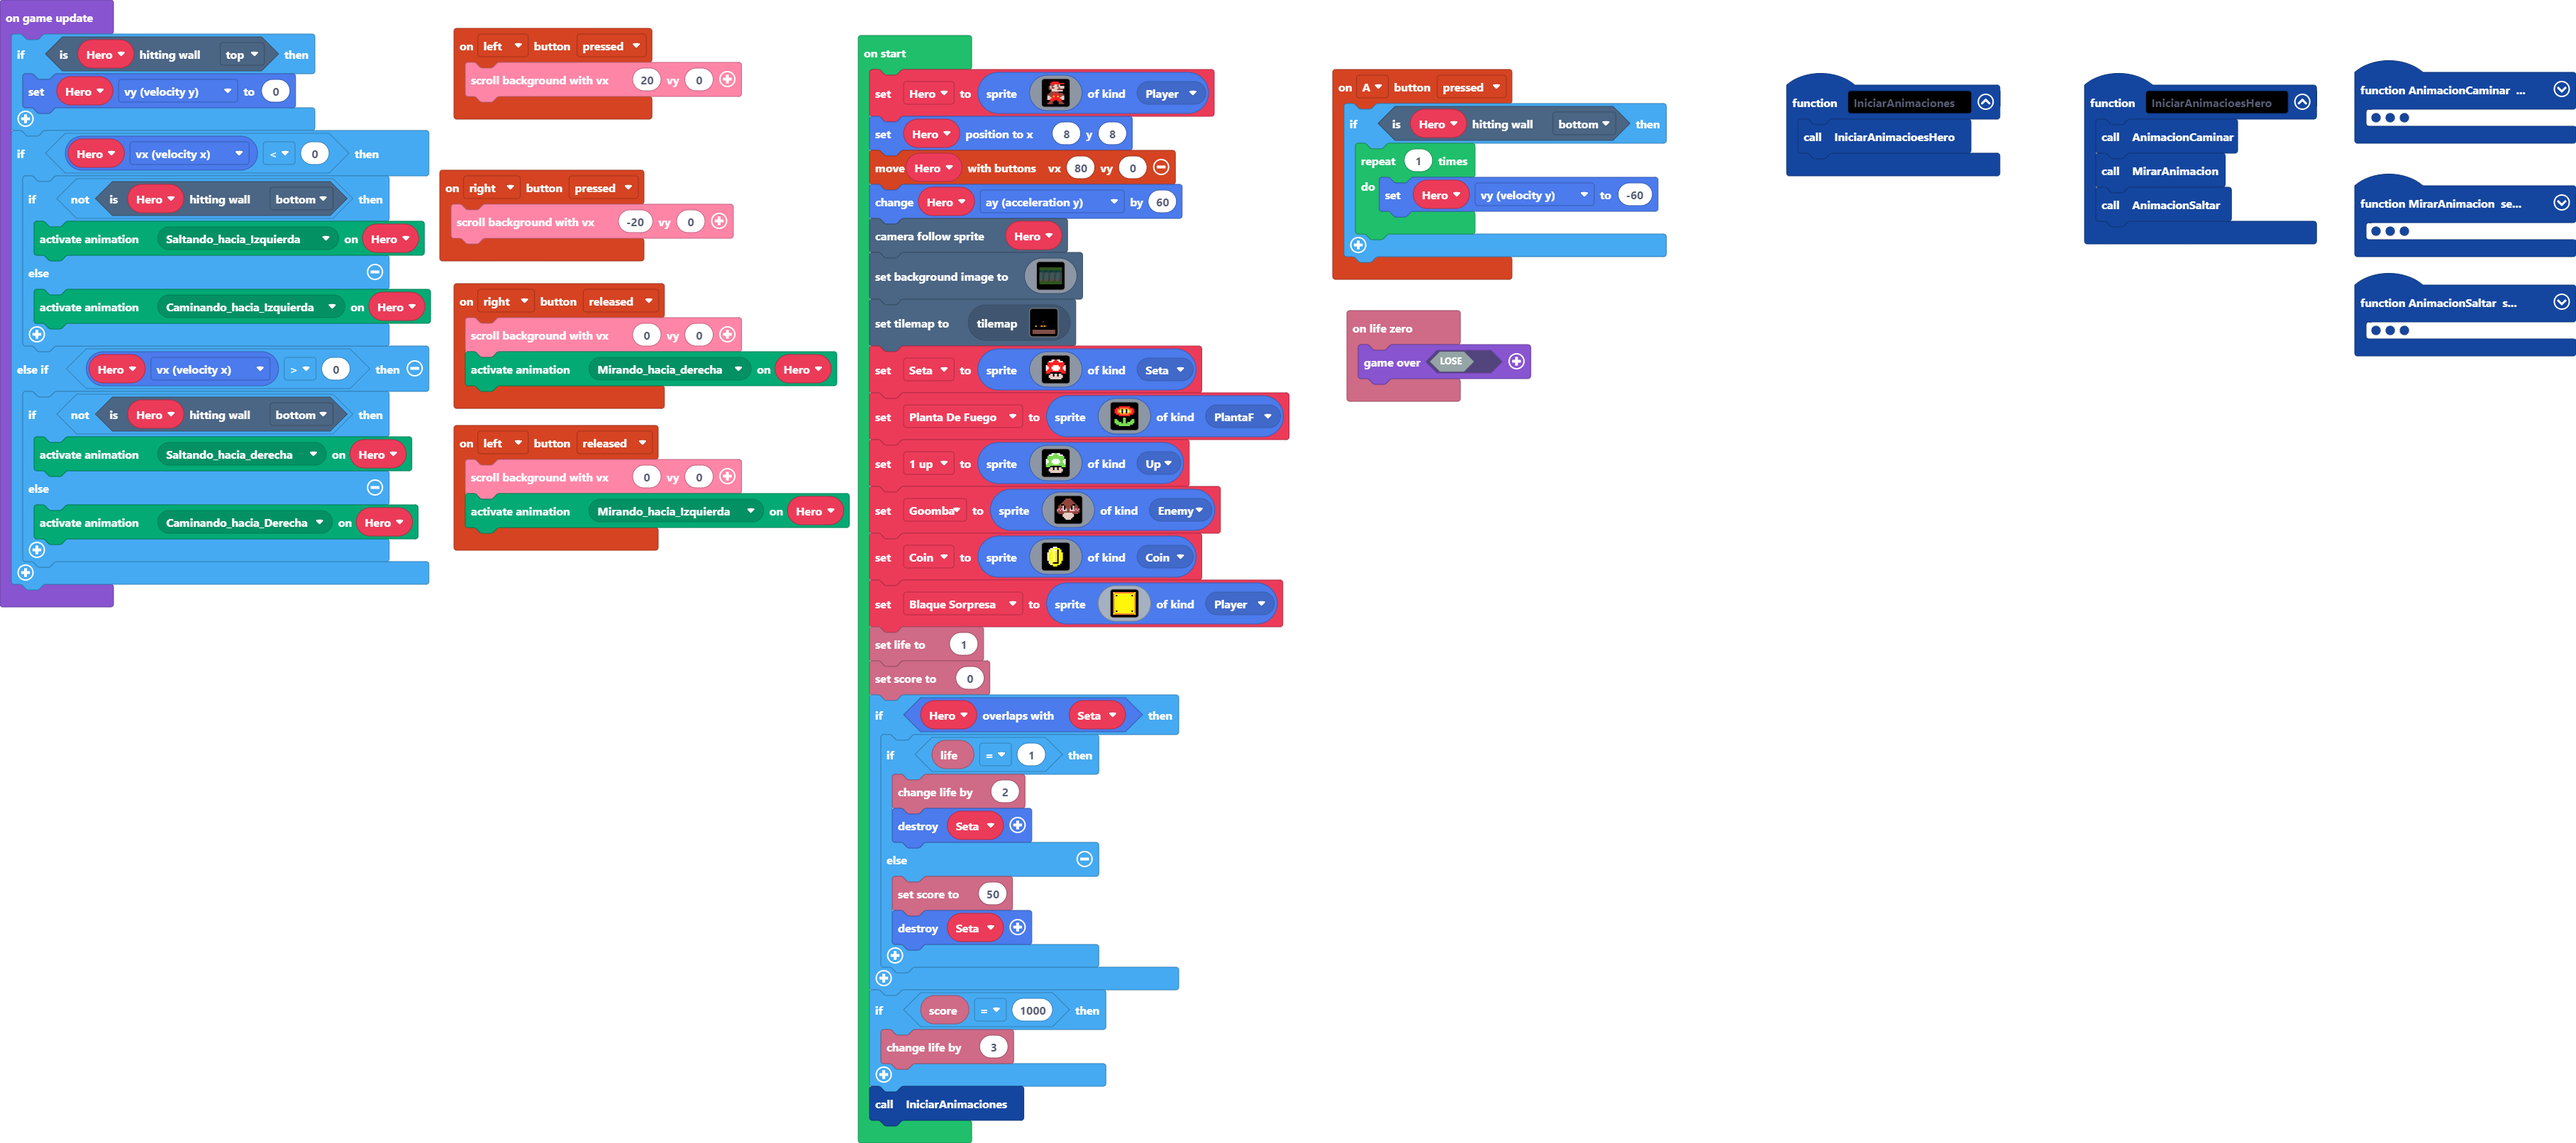
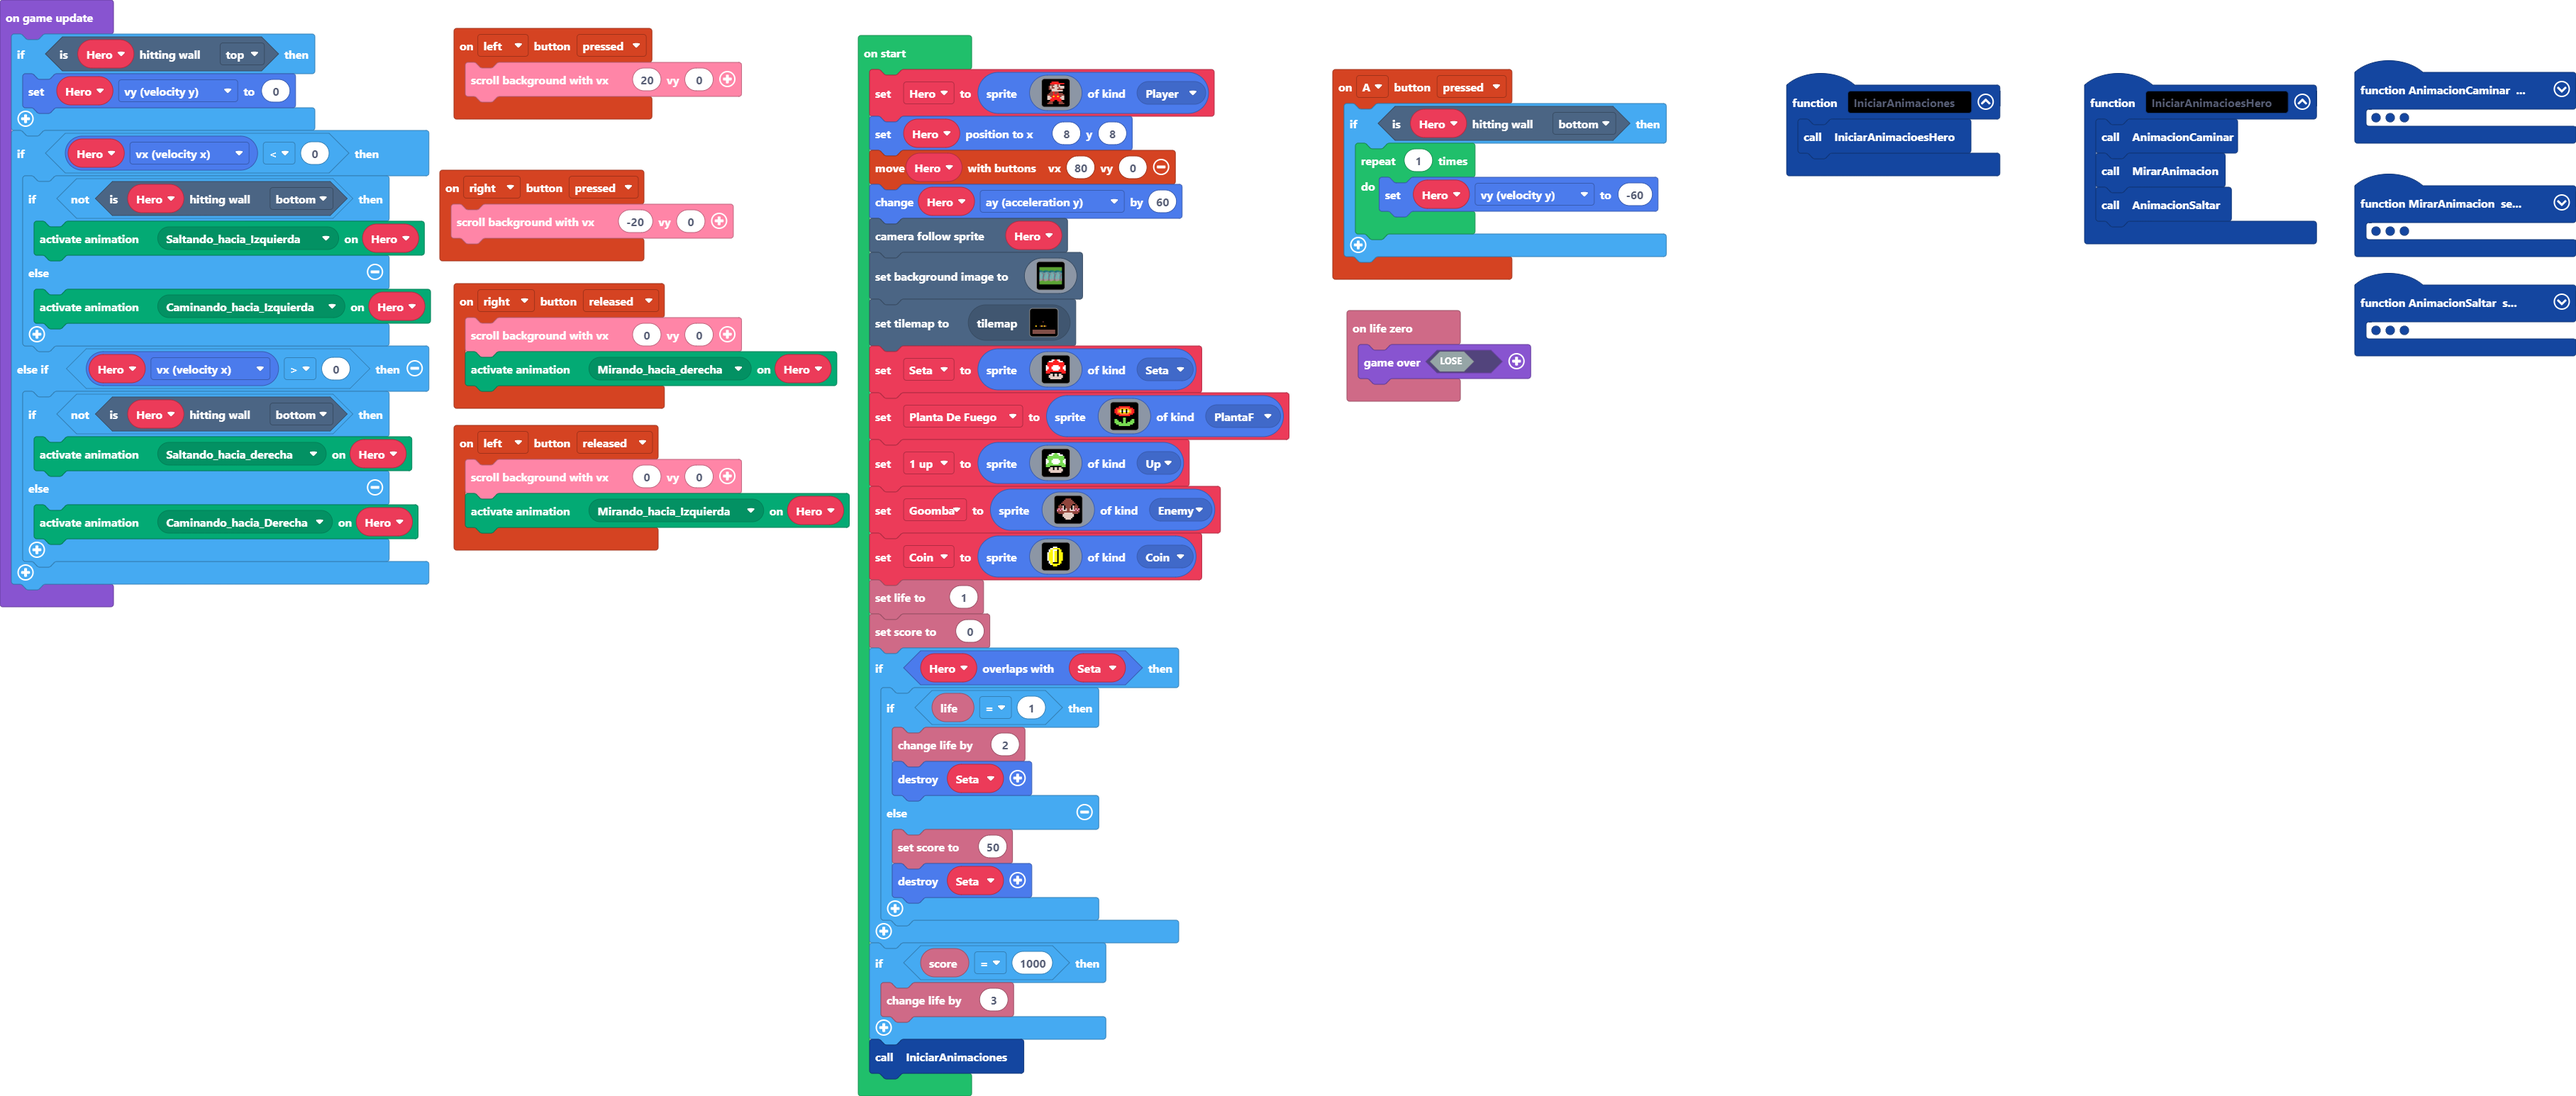
Update pxt.json, main.blocks, main.ts

Changed region(s): [[0.0, 0.0, 0.6534, 0.9935], [0.8089, 0.0621, 1.0, 0.3415], [0.6845, 0.0621, 0.7778, 0.1863]]

diff --git a/main.ts b/main.ts
@@ -14,6 +14,9 @@ namespace SpriteKind {
     export const Up = SpriteKind.create()
     export const PlantaF = SpriteKind.create()
     export const Seta = SpriteKind.create()
+    export const Bloque_Sorpresa = SpriteKind.create()
+    export const Bloque = SpriteKind.create()
+    export const Bloque_Fin = SpriteKind.create()
 }
 function IniciarAnimaciones () {
     IniciarAnimacioesHero()
@@ -523,24 +526,6 @@ let Coin = sprites.create(img`
     . . . f f f 5 5 5 f f f f . . . 
     . . . . . f f f f f . . . . . . 
     `, SpriteKind.Coin)
-let Blaque_Sorpresa = sprites.create(img`
-    5 4 4 4 4 4 4 4 4 4 4 4 4 4 4 5 
-    4 5 5 5 5 5 5 5 5 5 5 5 5 5 5 4 
-    4 5 f 5 5 5 5 5 5 5 5 5 5 f 5 4 
-    4 5 5 5 5 5 5 5 5 5 5 5 5 5 5 4 
-    4 5 5 5 5 5 5 5 5 5 5 5 5 5 5 4 
-    4 5 5 5 5 5 5 5 5 5 5 5 5 5 5 4 
-    4 5 5 5 5 5 5 5 5 5 5 5 5 5 5 4 
-    4 5 5 5 5 5 5 5 5 5 5 5 5 5 5 4 
-    4 5 5 5 5 5 5 5 5 5 5 5 5 5 5 4 
-    4 5 5 5 5 5 5 5 5 5 5 5 5 5 5 4 
-    4 5 5 5 5 5 5 5 5 5 5 5 5 5 5 4 
-    4 5 5 5 5 5 5 5 5 5 5 5 5 5 5 4 
-    4 5 5 5 5 5 5 5 5 5 5 5 5 5 5 4 
-    4 5 f 5 5 5 5 5 5 5 5 5 5 f 5 4 
-    4 5 5 5 5 5 5 5 5 5 5 5 5 5 5 4 
-    5 4 4 4 4 4 4 4 4 4 4 4 4 4 4 5 
-    `, SpriteKind.Player)
 info.setLife(1)
 info.setScore(0)
 if (Hero.overlapsWith(Seta)) {
